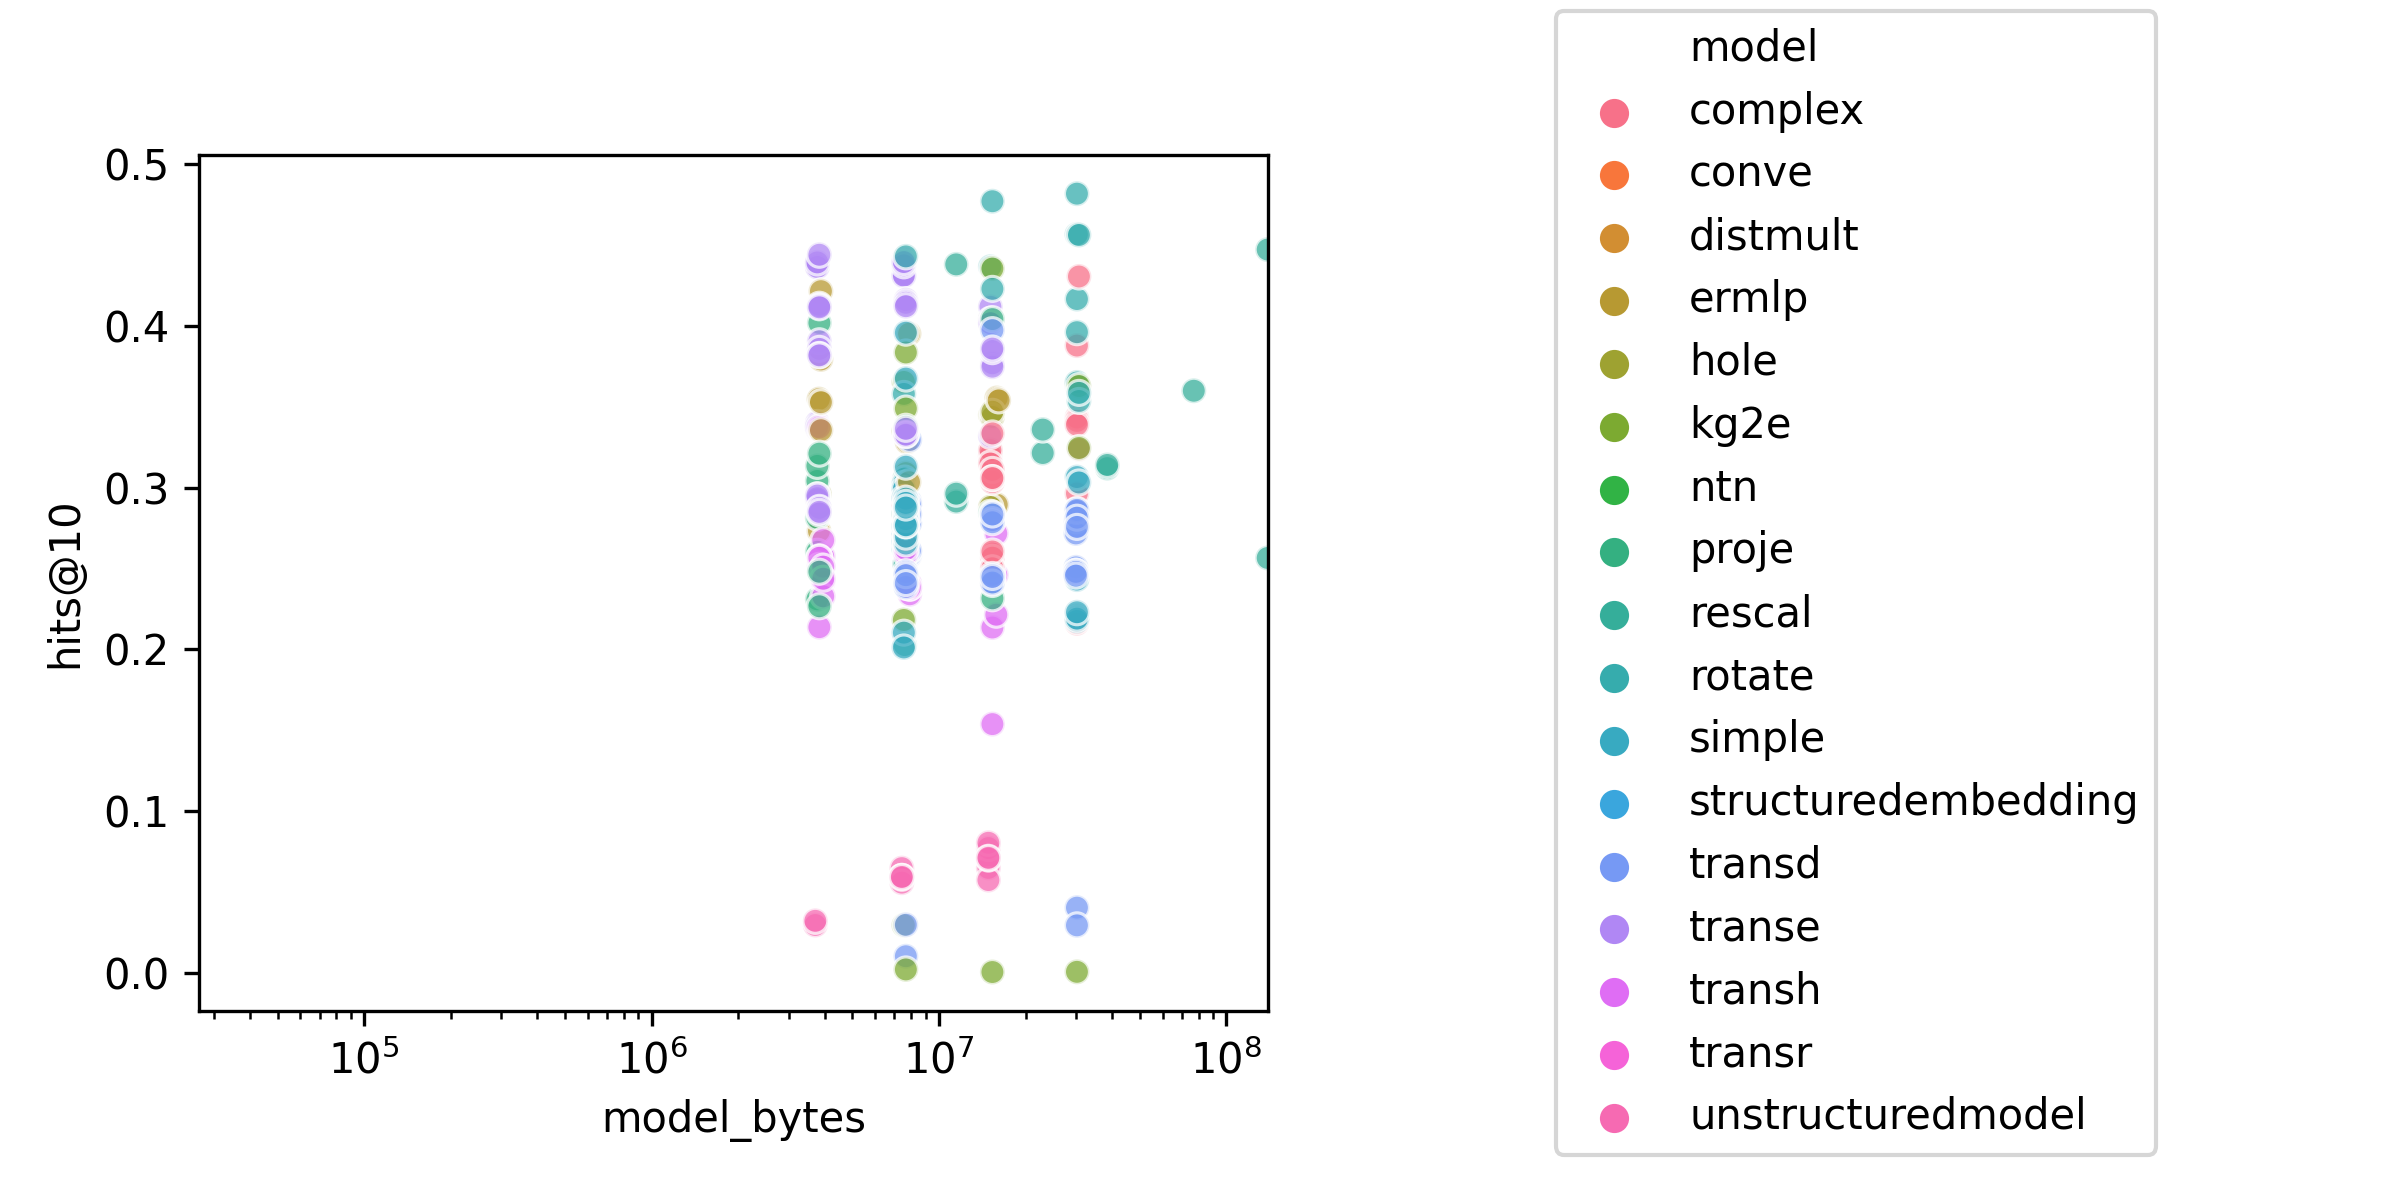
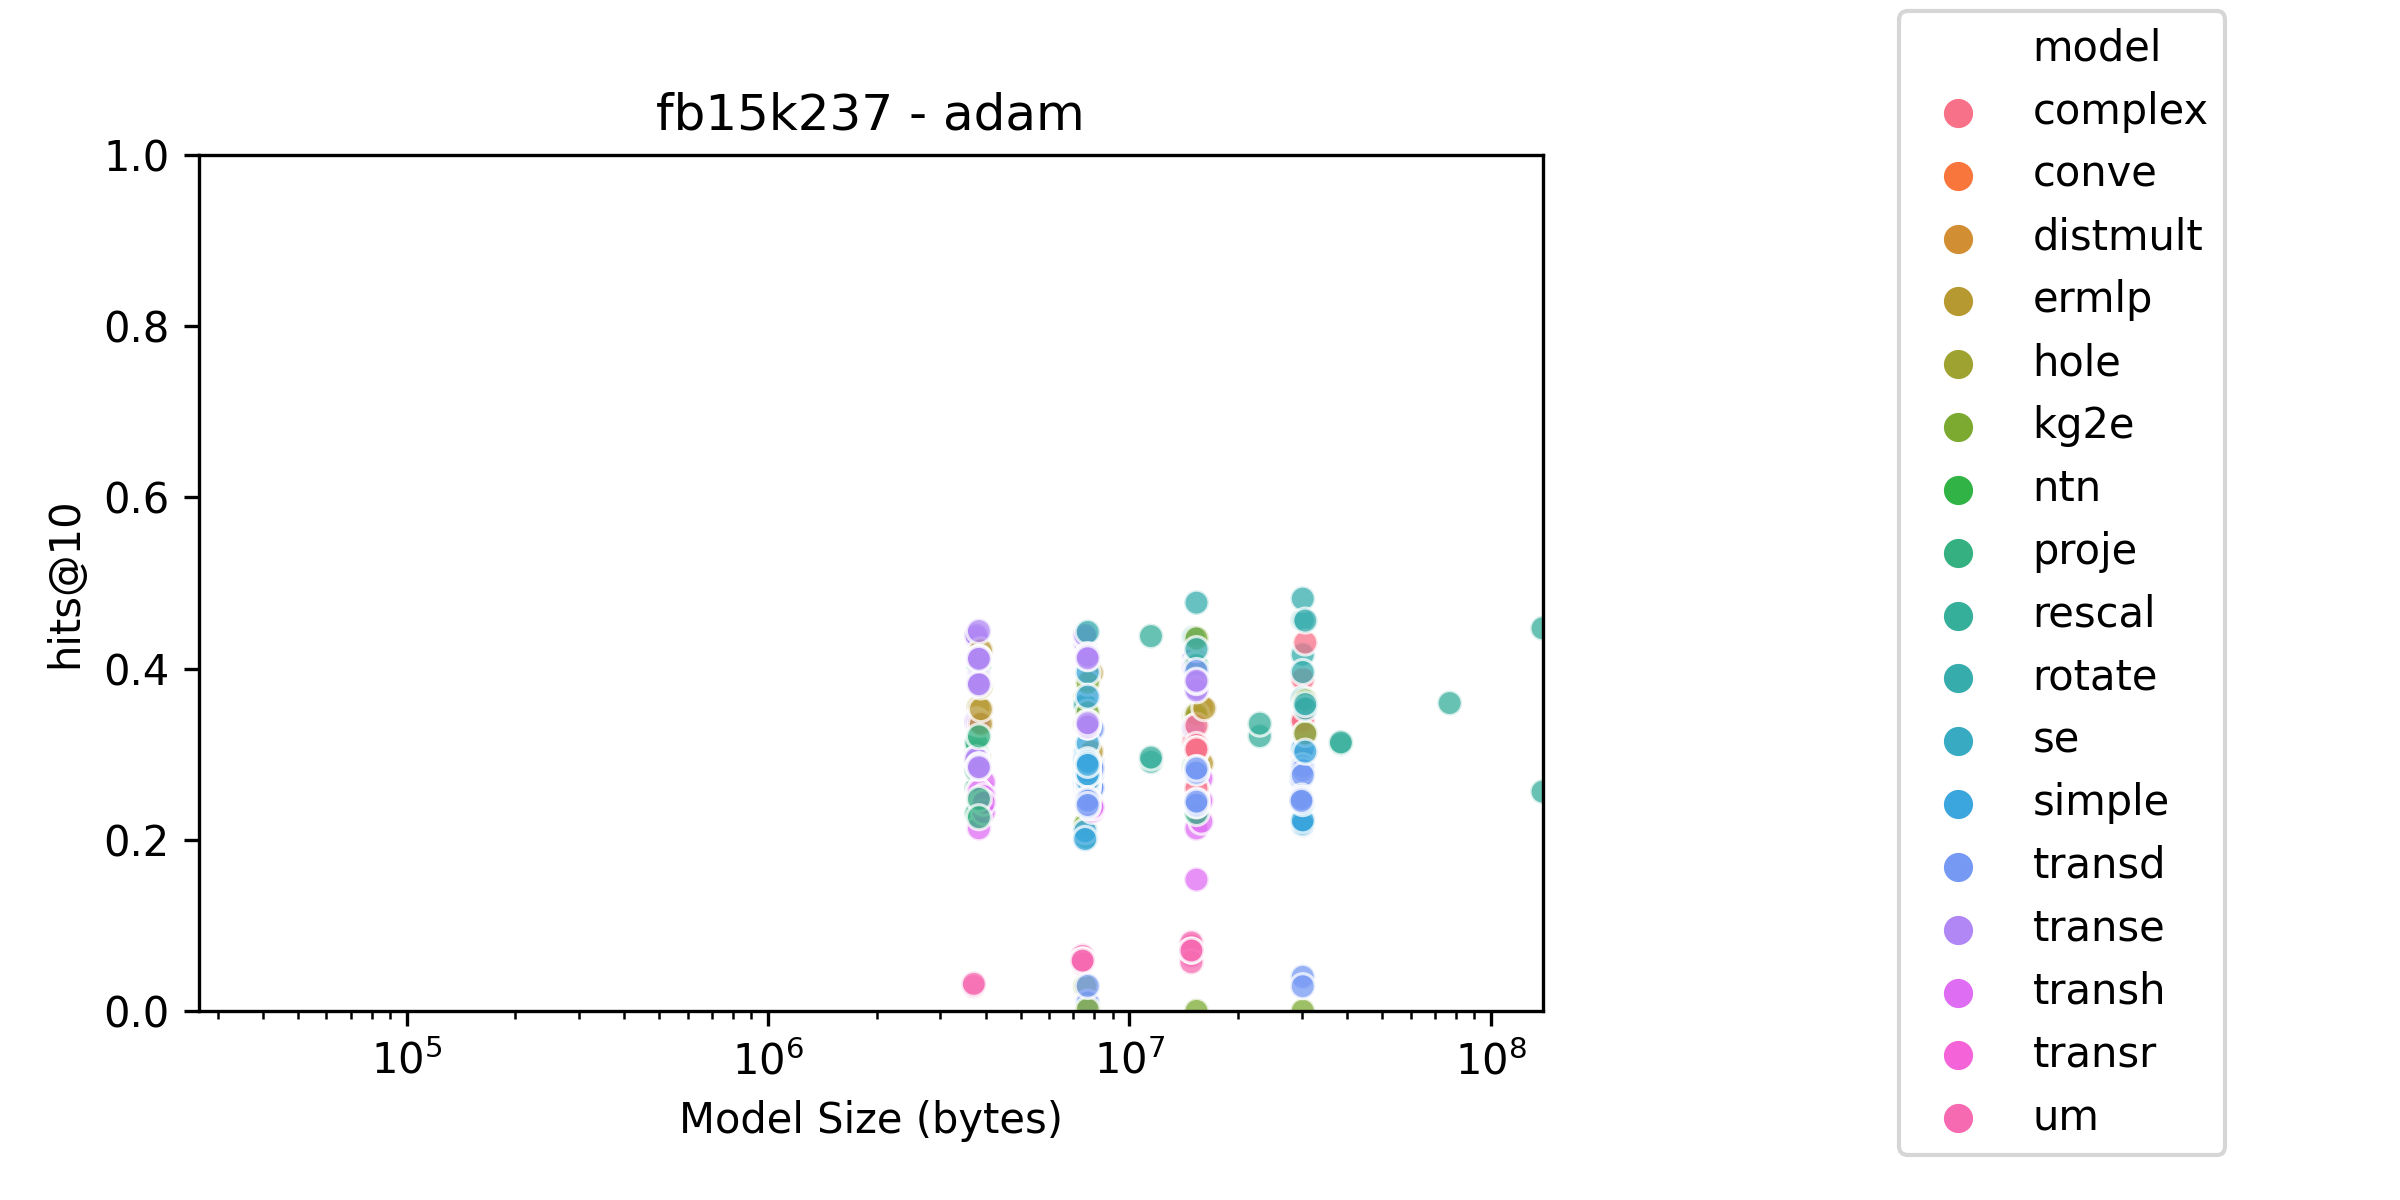
Add titles to sizeplots

diff --git a/ablation/skyline.py b/ablation/skyline.py
@@ -5,7 +5,7 @@ import pandas as pd
 import seaborn as sns
 from tqdm import tqdm
 
-from collate import COLLATION_PATH, SUMMARY_DIRECTORY
+from collate import COLLATION_PATH, MODEL, SUMMARY_DIRECTORY
 
 SKYLINE_DIRECTORY = os.path.join(SUMMARY_DIRECTORY, 'sizeplots')
 os.makedirs(SKYLINE_DIRECTORY, exist_ok=True)
@@ -14,6 +14,7 @@ os.makedirs(SKYLINE_DIRECTORY, exist_ok=True)
 def main():
     """Collate all HPO results in a single table."""
     df = pd.read_csv(COLLATION_PATH, sep='\t')
+    df['model'] = df['model'].map(lambda s: MODEL.get(s, s))
     it = tqdm(
         df.groupby(['dataset', 'optimizer']),
         desc=''
@@ -29,8 +30,11 @@ def main():
             ax=ax,
         )
         ax.set_xlim([min_bytes, max_bytes])
+        ax.set_ylim([0.0, 1.0])
         g.set(xscale="log")
         g.legend(loc='center left', bbox_to_anchor=(1.25, 0.5), ncol=1)
+        ax.set_xlabel('Model Size (bytes)')
+        ax.set_title(f'{dataset} - {optimizer}')
         plt.tight_layout()
         plt.savefig(os.path.join(SKYLINE_DIRECTORY, f'{dataset}_{optimizer}.png'), dpi=300)
         plt.close(plt.gcf())

diff --git a/ablation/plot.py b/ablation/plot.py
@@ -8,16 +8,11 @@ import pandas as pd
 import seaborn as sns
 from tqdm import tqdm
 
-from collate import ABLATION_HEADERS, COLLATION_PATH, HERE, SUMMARY_DIRECTORY, collate
+from collate import ABLATION_HEADERS, COLLATION_PATH, HERE, MODEL, SUMMARY_DIRECTORY, collate
 
 logger = logging.getLogger(__name__)
 
 sns.set_style("darkgrid")
-
-MODEL = {
-    'unstructuredmodel': 'um',
-    'structuredembedding': 'se',
-}
 
 LOSS = {
     'marginranking': 'MR',

diff --git a/ablation/collate.py b/ablation/collate.py
@@ -25,6 +25,11 @@ logging.getLogger('pykeen.triples.triples_factory').setLevel(logging.ERROR)
 
 COLLATION_PATH = os.path.join(SUMMARY_DIRECTORY, 'results.tsv')
 
+MODEL = {
+    'unstructuredmodel': 'um',
+    'structuredembedding': 'se',
+}
+
 GETTERS = {
     'hits@10': lambda metrics: metrics['hits_at_k']['avg']['10']
 }
